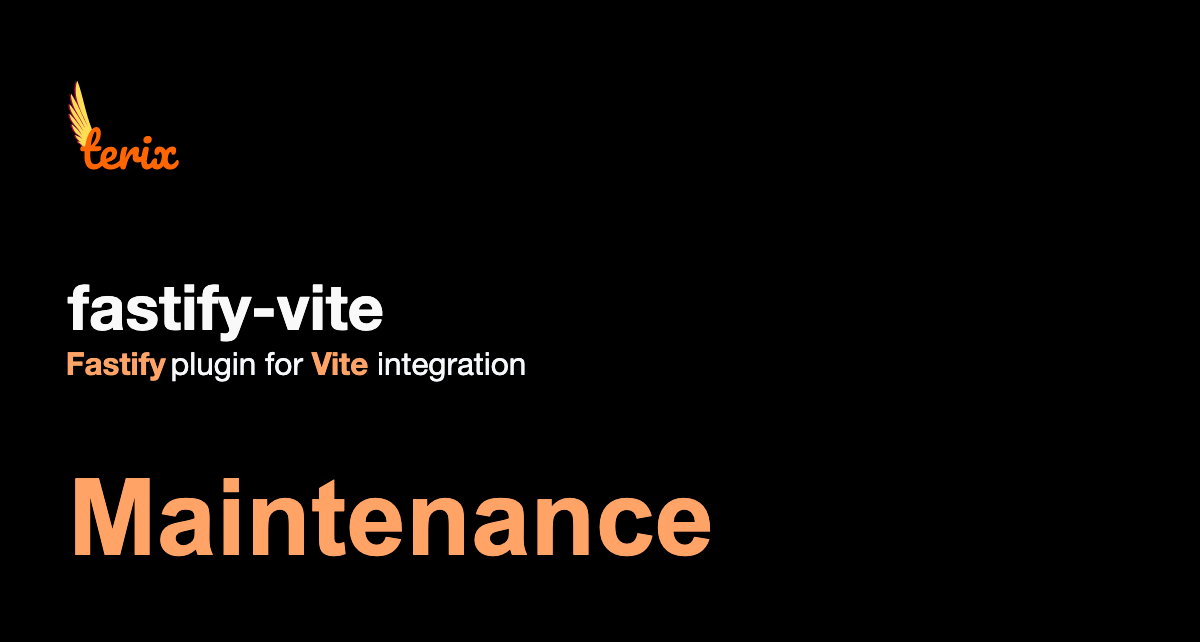
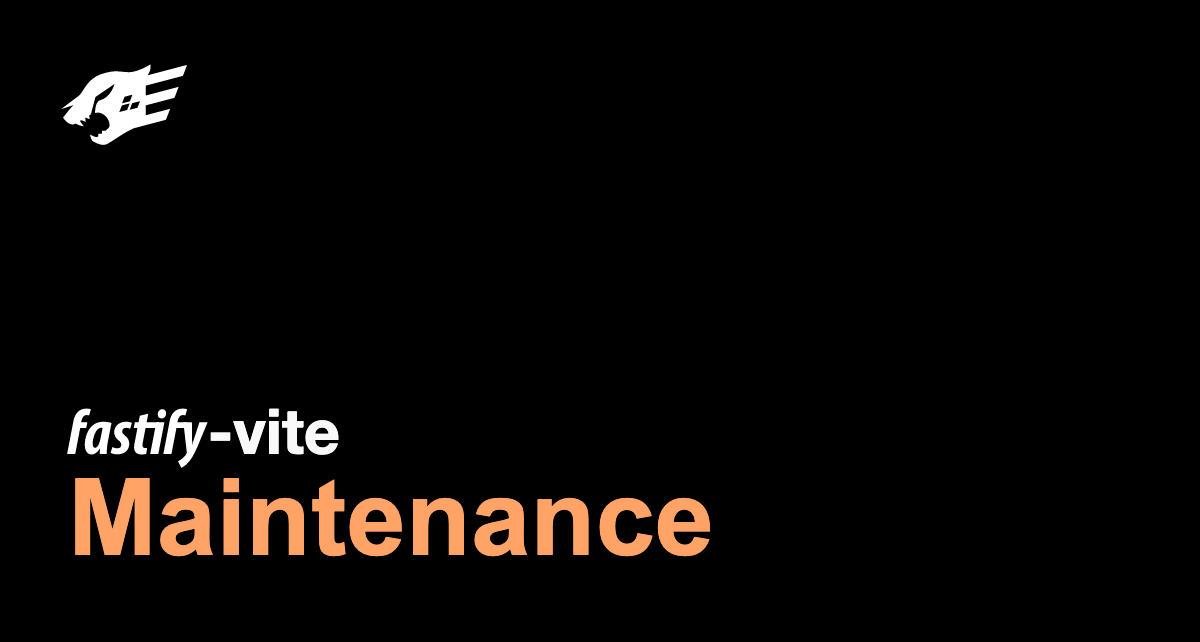
docs: update covers

Changed region(s): [[0.0308, 0.4361, 0.4317, 0.5919], [0.0308, 0.6231, 0.2775, 0.7165], [0.0308, 0.0935, 0.1542, 0.2804]]

diff --git a/docs/covers.js b/docs/covers.js
@@ -16,8 +16,8 @@ const svg = (title) => (
    xmlns:inkscape="http://www.inkscape.org/namespaces/inkscape"
    inkscape:export-ydpi="96"
    inkscape:export-xdpi="96"
-   inkscape:export-filename="/Users/jonas/Downloads/social.png"
-   sodipodi:docname="entry.svg"
+   inkscape:export-filename="/Users/jonas/Downloads/cover.png"
+   sodipodi:docname="article.svg"
    inkscape:version="1.0.2 (e86c8708, 2021-01-15)"
    id="svg117"
    version="1.1"
@@ -27,7 +27,7 @@ const svg = (title) => (
   <defs
      id="defs111" />
   <sodipodi:namedview
-     inkscape:window-maximized="0"
+     inkscape:window-maximized="1"
      inkscape:window-y="25"
      inkscape:window-x="0"
      inkscape:window-height="847"
@@ -36,9 +36,9 @@ const svg = (title) => (
      inkscape:document-rotation="0"
      inkscape:current-layer="text142"
      inkscape:document-units="px"
-     inkscape:cy="390.01423"
-     inkscape:cx="611.15187"
-     inkscape:zoom="0.63287027"
+     inkscape:cy="308.43284"
+     inkscape:cx="587.90086"
+     inkscape:zoom="0.66967556"
      inkscape:pageshadow="2"
      inkscape:pageopacity="0.0"
      borderopacity="1.0"
@@ -73,42 +73,6 @@ const svg = (title) => (
          width="317.5"
          id="rect65"
          style="fill:#000000;fill-rule:evenodd;stroke-width:0.112437" />
-      <g
-         transform="matrix(0.49234451,0,0,0.50557002,17.991671,21.325106)"
-         id="g63">
-        <g
-           transform="matrix(0.69049693,0,0,0.69049693,-37.076081,-57.036554)"
-           id="g21">
-          <path
-             d="m 58.054708,105.98839 c -0.397523,-0.58357 -0.794974,-1.15363 -1.190655,-1.70658 -1.066018,-1.49316 -2.119657,-2.86676 -3.133959,-4.04787 0.153499,2.33596 0.790947,4.40504 1.715822,6.35377 0.185605,0.39169 0.383786,0.77917 0.59186,1.16216 0.341137,0.629 0.70829,1.2476 1.096929,1.86078 2.044798,3.23657 4.645435,6.33347 6.762706,10.04916 0.09334,0.1651 0.185944,0.33084 0.277678,0.49851 0.242613,0.43973 0.477558,0.88952 0.703415,1.3493 -0.293309,-0.46209 -0.591355,-0.92396 -0.896249,-1.38512 -0.110062,-0.16735 -0.220783,-0.33414 -0.333641,-0.50043 -1.877402,-2.80259 -3.963413,-5.55994 -6.272239,-8.18611 -0.379881,-0.43373 -0.767009,-0.8627 -1.159782,-1.28824 -0.60208,-0.65296 -1.217963,-1.29574 -1.849143,-1.9271 0,0 0,0 -6.02e-4,-7.3e-4 -0.221833,-0.22324 -0.446585,-0.44407 -0.672068,-0.66429 0.113763,0.7726 0.270905,1.48706 0.464192,2.15555 0.691141,2.37456 1.847145,4.1543 3.165554,5.81206 1.052223,1.32405 2.207198,2.57052 3.308761,3.98113 0.111733,0.14248 0.222543,0.28695 0.332571,0.4333 l 6.64e-4,8.1e-4 c 0.348643,0.46328 0.690101,0.94611 1.019566,1.45495 0.03133,0.0483 0.06258,0.0965 0.09318,0.14544 0.05177,0.0821 0.103621,0.16403 0.154665,0.24667 0.115567,0.18753 0.228822,0.37821 0.340965,0.57351 0.04119,0.0722 0.08302,0.14521 0.123375,0.21939 0.250505,0.44928 0.49147,0.92129 0.717806,1.419 -0.368585,-0.52468 -0.748551,-1.04365 -1.141431,-1.55441 -0.03425,-0.046 -0.06911,-0.0924 -0.105415,-0.13782 -0.210881,-0.27433 -0.425482,-0.54561 -0.643734,-0.81386 -0.04845,-0.0601 -0.09765,-0.11951 -0.14684,-0.17894 -0.367031,-0.44808 -0.74489,-0.88843 -1.131166,-1.31935 -0.124136,-0.13963 -0.249194,-0.27726 -0.376249,-0.41448 -0.502041,-0.54407 -1.020544,-1.07207 -1.553599,-1.58184 -0.40408,-0.38528 -0.817222,-0.76058 -1.239061,-1.12251 -0.543691,-0.46882 -1.102208,-0.91673 -1.675815,-1.34102 0.633988,2.04844 1.249143,3.52272 1.855834,4.62809 0.0767,0.14056 0.153359,0.27496 0.230432,0.40407 0.186883,0.31398 0.372692,0.59548 0.559182,0.8492 0.07554,0.10323 0.150033,0.20228 0.225695,0.2967 0.09619,0.12072 0.192261,0.23535 0.288218,0.34389 0.621541,0.70487 1.242419,1.17288 1.87481,1.63384 0.984352,0.71751 1.995479,1.41657 3.077281,2.96467 -0.573367,-0.49124 -1.061519,-0.83169 -1.493025,-1.08422 -0.844378,-0.49454 -1.473437,-0.65411 -2.105597,-0.93845 -0.0409,-0.0181 -0.0817,-0.0374 -0.122467,-0.0569 -0.370904,-0.1778 -0.74759,-0.40893 -1.173411,-0.7861 -0.195977,-0.17416 -0.402626,-0.37906 -0.62437,-0.62464 0.350899,1.04131 0.794789,2.03658 1.410944,2.94867 0.48609,0.7205 1.079213,1.38953 1.817704,1.98774 0.486375,0.39507 1.035188,0.7595 1.65914,1.08774 -0.522873,-0.18064 -0.91534,-0.29486 -1.236531,-0.35429 -0.44747,-0.0835 -0.758694,-0.0622 -1.094197,0.0299 -0.148595,0.0402 -0.302581,0.0946 -0.476503,0.15935 0.290179,0.137 0.572992,0.28754 0.847831,0.45085 0.833045,0.49279 1.598475,1.09962 2.282509,1.7874 0.943274,0.95179 1.730342,2.06002 2.315817,3.23983 0.0012,0.001 9.71e-4,0.004 0.0021,0.006 0.05921,0.11793 0.115021,0.2362 0.168779,0.35494 0.02271,0.0393 0.04534,0.0787 0.06889,0.1161 0.910738,1.46091 2.99103,1.96528 3.231693,-0.14534 -1.79e-4,-0.22735 0.0059,-0.45616 0.01533,-0.68531 0.09727,-2.26152 0.625172,-4.54799 1.371372,-6.7171 0.12263,-0.35986 0.251586,-0.71507 0.386267,-1.06636 0.318484,-0.83598 0.665929,-1.64892 1.028147,-2.43206 0.05703,-0.12385 0.114666,-0.24696 0.172176,-0.36873 0.188512,-0.3983 0.380891,-0.78745 0.574467,-1.16768 -2.392514,-5.1808 -4.238409,-10.93114 -5.826935,-16.54821 -1.241437,-4.3921 -2.326794,-8.703139 -3.39216,-12.595509 -0.245537,-0.89604 -0.489815,-1.76961 -0.734555,-2.61684 -0.893273,-3.092615 -1.795839,-5.836255 -2.788022,-8.032235 -1.03072,3.19706 -1.326971,6.268625 -1.11515,9.254905 0.110776,1.58493 0.365926,3.14562 0.728963,4.68875 0.723091,3.06774 1.876515,6.063779 3.190051,9.033689 0.309898,0.70183 0.630041,1.40259 0.954342,2.1024 0.337373,0.72608 0.680975,1.45071 1.025186,2.17607 1.231951,2.58736 2.488548,5.17163 3.588795,7.78513 -1.370068,-2.436 -2.551811,-4.80277 -3.667809,-7.13492 -0.288776,-0.60308 -0.572921,-1.20504 -0.855249,-1.8048 -0.491406,-1.04374 -0.97588,-2.0821 -1.464625,-3.11815 -0.725561,-1.53747 -1.460287,-3.07106 -2.241822,-4.61043 -0.442003,-0.87196 -0.900103,-1.745429 -1.379408,-2.623619 -1.089491,-1.99675 -2.290763,-4.01353 -3.6835,-6.07344 0.0026,3.34609 0.743765,6.33703 1.878908,9.154089 0.311232,0.77366 0.652752,1.53464 1.016873,2.28557 0.348619,0.72172 0.718491,1.43327 1.103018,2.14011 2.385791,4.38993 5.329473,8.57544 7.318617,13.3467 -2.377829,-4.12325 -5.213663,-8.90617 -8.033554,-13.05563 -0.03557,-0.0534 -0.07243,-0.10693 -0.108732,-0.15978"
-             style="fill:#aa0044;fill-opacity:1;fill-rule:nonzero;stroke:none;stroke-width:0.00952631"
-             id="path92" />
-          <path
-             id="path92-0"
-             style="fill:#ffdd55;fill-opacity:1;fill-rule:nonzero;stroke:none;stroke-width:0.0095263"
-             d="m 59.112802,105.98839 c -0.397523,-0.58358 -0.794974,-1.15363 -1.190655,-1.70658 -1.066019,-1.49316 -2.119656,-2.86676 -3.133959,-4.04787 0.153499,2.33596 0.790946,4.40503 1.715822,6.35376 0.185606,0.3917 0.383786,0.77917 0.59186,1.16217 0.341137,0.62899 0.70829,1.24759 1.096929,1.86078 2.044797,3.23657 4.645434,6.33347 6.762705,10.04915 0.09334,0.16511 0.185946,0.33084 0.277679,0.49851 0.242611,0.43973 0.477558,0.88952 0.703421,1.34931 -0.293315,-0.46209 -0.591361,-0.92397 -0.896255,-1.38513 -0.110062,-0.16734 -0.220783,-0.33414 -0.333641,-0.50042 -1.877402,-2.8026 -3.963413,-5.55995 -6.272239,-8.18611 -0.379882,-0.43374 -0.767009,-0.86271 -1.159782,-1.28824 -0.60208,-0.65297 -1.217964,-1.29575 -1.849143,-1.92711 0,0 0,0 -6.03e-4,-7.2e-4 -0.221832,-0.22325 -0.446584,-0.44407 -0.672067,-0.6643 0.113763,0.77261 0.270904,1.48707 0.464193,2.15555 0.691139,2.37456 1.847145,4.15431 3.165553,5.81207 1.052224,1.32405 2.207198,2.57052 3.308761,3.98113 0.111733,0.14247 0.222542,0.28695 0.332571,0.4333 l 6.52e-4,8.6e-4 c 0.348644,0.46329 0.6901,0.94612 1.019566,1.45495 0.03133,0.0483 0.06258,0.0965 0.09318,0.14544 0.05177,0.0821 0.10362,0.16405 0.154665,0.24668 0.115567,0.18752 0.228823,0.3782 0.340966,0.57351 0.04119,0.0722 0.08302,0.14521 0.123374,0.21938 0.250506,0.44929 0.49147,0.92129 0.717806,1.419 -0.368584,-0.52467 -0.74855,-1.04365 -1.141432,-1.55441 -0.03425,-0.046 -0.06911,-0.0924 -0.105414,-0.13782 -0.210882,-0.27433 -0.425482,-0.54561 -0.643734,-0.81385 -0.04845,-0.0601 -0.09765,-0.11951 -0.14684,-0.17895 -0.367031,-0.44808 -0.74489,-0.88842 -1.131166,-1.31934 -0.124136,-0.13964 -0.249195,-0.27725 -0.376248,-0.41449 -0.502041,-0.54407 -1.020545,-1.07207 -1.553599,-1.58184 -0.404081,-0.38527 -0.817223,-0.76058 -1.239062,-1.1225 -0.543691,-0.46882 -1.102207,-0.91673 -1.675815,-1.34102 0.633989,2.04844 1.249144,3.52271 1.855835,4.62809 0.0767,0.14056 0.153358,0.27495 0.230432,0.40407 0.186882,0.31397 0.372691,0.59547 0.559181,0.84919 0.07554,0.10324 0.150033,0.20228 0.225695,0.2967 0.09619,0.12072 0.192262,0.23535 0.288219,0.34389 0.62154,0.70488 1.242418,1.17289 1.874809,1.63385 0.984353,0.71751 1.995479,1.41656 3.07728,2.96467 -0.573365,-0.49125 -1.061518,-0.83169 -1.493023,-1.08423 -0.844379,-0.49453 -1.473438,-0.6541 -2.105597,-0.93844 -0.0409,-0.0181 -0.0817,-0.0374 -0.122468,-0.0569 -0.370903,-0.1778 -0.74759,-0.40893 -1.173411,-0.7861 -0.195977,-0.17415 -0.402625,-0.37905 -0.624369,-0.62463 0.3509,1.0413 0.794789,2.03658 1.410943,2.94867 0.48609,0.72049 1.079214,1.38952 1.817705,1.98773 0.486373,0.39508 1.035188,0.75951 1.65914,1.08775 -0.522874,-0.18065 -0.91534,-0.29487 -1.236532,-0.3543 -0.44747,-0.0835 -0.758694,-0.0622 -1.094197,0.0299 -0.148595,0.0402 -0.302581,0.0946 -0.476503,0.15935 0.29018,0.13701 0.572993,0.28754 0.847829,0.45087 0.833047,0.49277 1.598477,1.0996 2.282513,1.78739 0.943274,0.95179 1.730339,2.06001 2.315814,3.23983 8.88e-4,0.001 5.66e-4,0.004 0.0024,0.006 0.05921,0.11794 0.115018,0.2362 0.168776,0.35495 0.02272,0.0393 0.04533,0.0787 0.06886,0.11609 0.910743,1.46091 2.991033,1.96528 3.231703,-0.14535 -1.4e-4,-0.22734 0.006,-0.45615 0.0153,-0.6853 0.0973,-2.26153 0.62516,-4.54799 1.37136,-6.7171 0.12266,-0.35985 0.2516,-0.71507 0.38627,-1.06636 0.31849,-0.83598 0.66593,-1.64893 1.02815,-2.43206 0.057,-0.12384 0.11462,-0.24696 0.17217,-0.36873 0.18852,-0.3983 0.38089,-0.78745 0.57447,-1.16768 -2.3925,-5.18087 -4.23839,-10.93121 -5.82692,-16.54828 -1.241437,-4.3921 -2.326794,-8.703139 -3.39216,-12.595509 -0.245538,-0.89604 -0.489816,-1.76961 -0.734556,-2.61684 -0.893271,-3.092611 -1.795837,-5.836251 -2.788021,-8.032231 -1.030721,3.19706 -1.32697,6.26862 -1.11515,9.254901 0.110775,1.58493 0.365925,3.14563 0.728963,4.68875 0.723091,3.06774 1.876514,6.063779 3.190051,9.033699 0.309897,0.70182 0.630041,1.40259 0.954341,2.10239 0.337375,0.72608 0.680976,1.45071 1.025187,2.17607 1.231948,2.58736 2.488545,5.17163 3.588795,7.78513 -1.37007,-2.43599 -2.551806,-4.80277 -3.667809,-7.13492 -0.288776,-0.60308 -0.572921,-1.20504 -0.85525,-1.8048 -0.491406,-1.04374 -0.975879,-2.08209 -1.464625,-3.11815 -0.72556,-1.53747 -1.460286,-3.07106 -2.241822,-4.61043 -0.442001,-0.87196 -0.900103,-1.745429 -1.379407,-2.623609 -1.08949,-1.99676 -2.290764,-4.01354 -3.6835,-6.07345 0.0026,3.34609 0.743764,6.33703 1.878908,9.154089 0.311231,0.77367 0.652752,1.53464 1.016874,2.28557 0.348618,0.72172 0.71849,1.43327 1.103017,2.14011 2.38579,4.38993 5.329472,8.57544 7.318614,13.3467 -2.377826,-4.12325 -5.213661,-8.90616 -8.033551,-13.05563 -0.03558,-0.0534 -0.07243,-0.10693 -0.108731,-0.15978" />
-        </g>
-        <path
-           id="path41"
-           style="font-style:normal;font-variant:normal;font-weight:normal;font-stretch:normal;font-size:25.4px;font-family:Pacifico;-inkscape-font-specification:Pacifico;fill:#ff6600;stroke-width:0.264583"
-           d="m 19.127053,40.763031 q 0.3302,0 0.508,0.3048 0.2032,0.3048 0.2032,0.8382 0,1.016 -0.4826,1.5748 -1.0922,1.3462 -2.3876,2.2098 -1.2954,0.8636 -2.9718,0.8636 -5.1816,0 -5.1816,-7.2898 0,-1.1176 0.0762,-2.2606 h -0.9906 q -0.762,0 -1.0414,-0.2794 -0.254,-0.2794 -0.254,-0.889 0,-1.4224 1.143,-1.4224 h 1.4478 q 0.4317999,-2.794 1.3208,-5.1054 0.889,-2.3114 2.1336,-3.683 1.27,-1.3716 2.7178,-1.3716 1.0668,0 1.6764,0.9398 0.6096,0.9398 0.6096,2.3622 0,3.937 -3.302,6.858 h 2.8448 q 0.4064,0 0.5842,0.1778 0.1778,0.1778 0.1778,0.6604 0,1.7526 -2.8702,1.7526 h -3.0988 q -0.0508,1.27 -0.0508,1.9812 0,2.6416 0.6096,3.7084 0.635,1.0668 1.9812,1.0668 1.0922,0 1.9304,-0.6604 0.8382,-0.6604 1.9812,-1.9812 0.3048,-0.3556 0.6858,-0.3556 z m -4.445,-14.0716 q -0.381,0 -0.8636,0.9652 -0.4572,0.9398 -0.889,2.6416 -0.4064,1.6764 -0.6858,3.7338 1.4986,-1.2954 2.2352,-2.8956 0.762,-1.6256 0.762,-2.9464 0,-1.4986 -0.5588,-1.4986 z" />
-        <path
-           id="path43"
-           style="font-style:normal;font-variant:normal;font-weight:normal;font-stretch:normal;font-size:25.4px;font-family:Pacifico;-inkscape-font-specification:Pacifico;fill:#ff6600;stroke-width:0.264583"
-           d="m 29.098537,40.763031 q 0.3302,0 0.508,0.3048 0.2032,0.3048 0.2032,0.8382 0,1.016 -0.4826,1.5748 -0.9398,1.143 -2.667,2.1082 -1.7018,0.9652 -3.6576,0.9652 -2.667,0 -4.1402,-1.4478 -1.4732,-1.4478 -1.4732,-3.9624 0,-1.7526 0.7366,-3.2512 0.7366,-1.524 2.032,-2.413 1.3208,-0.889 2.9718,-0.889 1.4732,0 2.3622,0.889 0.889,0.8636 0.889,2.3622 0,1.7526 -1.27,3.0226 -1.2446,1.2446 -4.2418,1.9812 0.635,1.1684 2.413,1.1684 1.143,0 2.5908,-0.7874 1.4732,-0.8128 2.54,-2.1082 0.3048,-0.3556 0.6858,-0.3556 z m -6.4008,-3.683 q -0.9398,0 -1.6002,1.0922 -0.635,1.0922 -0.635,2.6416 v 0.0508 q 1.4986,-0.3556 2.3622,-1.0668 0.8636,-0.7112 0.8636,-1.651 0,-0.4826 -0.2794,-0.762 -0.254,-0.3048 -0.7112,-0.3048 z" />
-        <path
-           id="path45"
-           style="font-style:normal;font-variant:normal;font-weight:normal;font-stretch:normal;font-size:25.4px;font-family:Pacifico;-inkscape-font-specification:Pacifico;fill:#ff6600;stroke-width:0.264583"
-           d="m 29.545021,46.554231 q -0.9652,0 -1.3716,-1.016 -0.381,-1.016 -0.381,-3.2512 0,-3.302 0.9398,-6.2738 0.2286,-0.7366 0.7366,-1.0668 0.5334,-0.3556 1.4732,-0.3556 0.508,0 0.7112,0.127 0.2032,0.127 0.2032,0.4826 0,0.4064 -0.381,1.8288 -0.254,1.016 -0.4064,1.778 -0.1524,0.762 -0.254,1.8796 0.8382,-2.1844 1.8796,-3.556 1.0414,-1.3716 2.032,-1.9558 1.016,-0.5842 1.8542,-0.5842 1.651,0 1.651,1.651 0,0.3302 -0.2286,1.6002 -0.2032,1.016 -0.2032,1.27 0,0.889 0.635,0.889 0.7112,0 1.8288,-1.1176 0.3302,-0.3302 0.6858,-0.3302 0.3302,0 0.508,0.3048 0.2032,0.2794 0.2032,0.762 0,0.9398 -0.508,1.4732 -0.7112,0.7366 -1.6764,1.27 -0.9398,0.508 -2.0066,0.508 -1.3462,0 -2.0574,-0.6858 -0.6858,-0.6858 -0.6858,-1.8542 0,-0.381 0.0762,-0.762 0.0508,-0.508 0.0508,-0.6858 0,-0.4064 -0.2794,-0.4064 -0.381,0 -1.016,0.8636 -0.6096,0.8382 -1.2192,2.2352 -0.6096,1.397 -0.9906,2.9464 -0.2794,1.1938 -0.6604,1.6256 -0.3556,0.4064 -1.143,0.4064 z" />
-        <path
-           id="path47"
-           style="font-style:normal;font-variant:normal;font-weight:normal;font-stretch:normal;font-size:25.4px;font-family:Pacifico;-inkscape-font-specification:Pacifico;fill:#ff6600;stroke-width:0.264583"
-           d="m 42.628006,32.914431 q -1.0668,0 -1.6002,-0.4826 -0.5334,-0.508 -0.5334,-1.397 0,-0.889 0.6858,-1.4732 0.7112,-0.6096 1.7526,-0.6096 0.9398,0 1.524,0.4572 0.5842,0.4572 0.5842,1.2954 0,1.016 -0.6604,1.6256 -0.6604,0.5842 -1.7526,0.5842 z m -0.2032,13.6398 q -1.651,0 -2.413,-1.1684 -0.7366,-1.1684 -0.7366,-3.0988 0,-1.143 0.2794,-2.921 0.3048,-1.8034 0.762,-3.3528 0.2286,-0.8128 0.6096,-1.1176 0.381,-0.3048 1.2192,-0.3048 1.2954,0 1.2954,0.8636 0,0.635 -0.4826,2.9464 -0.6096,2.794 -0.6096,3.7846 0,0.762 0.2032,1.1684 0.2032,0.4064 0.6858,0.4064 0.4572,0 1.143,-0.635 0.6858,-0.635 1.8288,-2.0066 0.3048,-0.3556 0.6858,-0.3556 0.3302,0 0.508,0.3048 0.2032,0.3048 0.2032,0.8382 0,1.016 -0.4826,1.5748 -2.5146,3.0734 -4.699,3.0734 z" />
-        <path
-           id="path49"
-           style="font-style:normal;font-variant:normal;font-weight:normal;font-stretch:normal;font-size:25.4px;font-family:Pacifico;-inkscape-font-specification:Pacifico;fill:#ff6600;stroke-width:0.264583"
-           d="m 58.835584,41.525031 q 0.3302,0 0.508,0.3048 0.2032,0.3048 0.2032,0.8382 0,0.9144 -0.4318,1.5748 -1.4986,2.3114 -4.2672,2.3114 -1.1938,0 -2.1336,-0.4572 -0.9144,-0.4826 -1.4986,-1.3716 -1.4732,1.8034 -3.429,1.8034 -1.397,0 -2.2098,-0.8128 -0.8128,-0.8128 -0.8128,-2.159 0,-1.27 0.5842,-2.0574 0.5842,-0.7874 1.651,-0.7874 0.9144,0 0.9144,0.6858 0,0.2032 -0.0508,0.7112 l -0.0762,0.9652 q 0,0.762 0.6604,0.762 0.4826,0 0.9144,-0.5588 0.4572,-0.5842 0.7366,-1.5748 0.3048,-0.9906 0.3048,-2.1844 0,-0.9144 -0.2286,-1.524 -0.2286,-0.635 -0.5588,-0.635 -0.2794,0 -0.4064,0.1524 -0.127,0.127 -0.254,0.4572 -0.1524,0.4064 -0.4064,0.6604 -0.254,0.2286 -0.889,0.2286 -0.5588,0 -0.889,-0.381 -0.3302,-0.4064 -0.3302,-1.2192 0,-1.2954 0.7874,-2.032 0.7874,-0.7366 2.032,-0.7366 1.0668,0 1.9304,0.5334 0.8636,0.508 1.3208,1.4986 0.762,-1.016 1.7018,-1.524 0.9652,-0.508 1.8796,-0.508 0.9906,0 1.4986,0.4572 0.5334,0.4572 0.5334,1.4732 0,1.143 -0.4318,1.8034 -0.4318,0.635 -1.0414,0.635 -0.5588,0 -0.762,-0.2286 -0.2032,-0.2286 -0.3048,-0.6604 -0.0508,-0.3048 -0.1524,-0.4572 -0.1016,-0.1524 -0.3556,-0.1524 -0.3048,0 -0.6604,0.5842 -0.3302,0.5588 -0.5842,1.4986 -0.2286,0.9398 -0.2286,1.9558 0,1.143 0.508,1.8288 0.5334,0.6858 1.27,0.6858 1.397,0 2.7686,-2.0066 0.254,-0.381 0.6858,-0.381 z" />
-      </g>
       <text
          xml:space="preserve"
          style="font-size:50.8px;line-height:1.25;font-family:sans-serif;-inkscape-font-specification:'sans-serif, Normal';stroke-width:0.0700042"
@@ -133,43 +97,6 @@ const svg = (title) => (
            style="font-style:normal;font-variant:normal;font-weight:normal;font-stretch:normal;font-family:'System Font';-inkscape-font-specification:'System Font';stroke-width:0.0700042" /></text>
       <text
          xml:space="preserve"
-         style="font-style:normal;font-variant:normal;font-weight:bold;font-stretch:normal;font-size:16.6676px;line-height:1.25;font-family:'Helvetica Neue';-inkscape-font-specification:'Helvetica Neue Bold';stroke-width:0.055124"
-         x="17.991661"
-         y="87.417542"
-         id="text877"><tspan
-           sodipodi:role="line"
-           id="tspan875"
-           x="17.991661"
-           y="87.417542"
-           style="font-style:normal;font-variant:normal;font-weight:bold;font-stretch:normal;font-size:16.6676px;font-family:'Helvetica Neue';-inkscape-font-specification:'Helvetica Neue Bold';fill:#f9f9f9;stroke-width:0.055124">fastify-vite</tspan></text>
-      <text
-         xml:space="preserve"
-         style="font-style:normal;font-variant:normal;font-weight:normal;font-stretch:normal;font-size:2.77792px;line-height:1.25;font-family:'Helvetica Neue';-inkscape-font-specification:'Helvetica Neue';fill:#ff6600;fill-opacity:1;stroke:none;stroke-width:0.055124"
-         x="16.429018"
-         y="99.176323"
-         id="text36-7"><tspan
-           sodipodi:role="line"
-           x="16.429018"
-           y="99.176323"
-           style="font-style:normal;font-variant:normal;font-weight:normal;font-stretch:normal;font-size:8.33374px;font-family:'Helvetica Neue';-inkscape-font-specification:'Helvetica Neue';fill:#f5f7fa;fill-opacity:1;stroke-width:0.055124"
-           id="tspan38-4"
-           rotate="0 0 0 0 0 0 0 0 0 0 0 0 0 0 0 0 0 0 0 0 0 0 0 0 0 0 0 0 0 0 0 0 0 0 0 0"
-           dx="0 0 0 0 0 0 0 -0.98761541"><tspan
-   style="font-style:normal;font-variant:normal;font-weight:bold;font-stretch:normal;font-size:8.33374px;font-family:'Helvetica Neue';-inkscape-font-specification:'Helvetica Neue';fill:#ffa366;fill-opacity:1;stroke-width:0.055124"
-   id="tspan867-5"
-   rotate="0 0 0 0 0 0 0 0"
-   dx="0.98761541">Fastify</tspan> plugin for <tspan
-   style="font-style:normal;font-variant:normal;font-weight:bold;font-stretch:normal;font-size:8.33374px;font-family:'Helvetica Neue';-inkscape-font-specification:'Helvetica Neue';fill:#ffa366;fill-opacity:1;stroke-width:0.055124"
-   id="tspan869-1"
-   rotate="0 0 0 0 0">Vite</tspan> integration</tspan><tspan
-           sodipodi:role="line"
-           x="16.429018"
-           y="104.35899"
-           style="font-style:normal;font-variant:normal;font-weight:normal;font-stretch:normal;font-size:13.8896px;font-family:'Helvetica Neue';-inkscape-font-specification:'Helvetica Neue';fill:#f5f7fa;fill-opacity:1;stroke-width:0.055124"
-           rotate="0"
-           id="tspan883-6" /></text>
-      <text
-         xml:space="preserve"
          style="font-style:normal;font-variant:normal;font-weight:bold;font-stretch:normal;font-size:28.2222px;line-height:1.25;font-family:'Helvetica Neue';-inkscape-font-specification:'Helvetica Neue Bold';fill:#ff6600;fill-opacity:1;stroke:none;stroke-width:0.055124"
          x="17.991667"
          y="146.88046"
@@ -179,9 +106,67 @@ const svg = (title) => (
            x="17.991667"
            y="146.88046"
            style="font-style:normal;font-variant:normal;font-weight:bold;font-stretch:normal;font-size:28.2222px;font-family:sans-serif,'Helvetica Neue';-inkscape-font-specification:'Helvetica Neue Bold';fill:#ffa366;fill-opacity:1;stroke-width:0.055124">${title}</tspan></text>
+      <path
+         class="st0"
+         d="m 48.398293,20.068157 1.04521,-2.705997 -0.04504,-0.167464 -10.337761,2.72332 c 1.101802,-1.594956 0.722985,-2.873461 0.722985,-2.873461 0,0 -3.300784,2.108899 -5.797738,2.052307 -2.496955,-0.05544 -3.300785,-0.72183 -7.129371,0.498929 -3.828586,1.220759 -4.909599,4.96619 -6.019485,5.771175 -1.109885,0.804985 -4.591993,3.426672 -4.591993,3.426672 l 0.0081,0.04735 3.139095,-0.999013 c 0,0 -0.860422,0.811914 -2.689828,3.276531 0,0 -0.03234,-0.02887 -0.08546,-0.07969 l 0.0023,0.01732 c 0,0 1.470224,2.247489 2.912729,1.83056 0.144366,-0.04158 0.308366,-0.110873 0.487379,-0.202112 0.580929,0.32338 1.338562,0.64214 2.175885,0.72876 0,0 -0.56707,-0.658309 -1.039435,-1.407858 0.128197,-0.082 0.258703,-0.167464 0.39152,-0.254084 l -0.06121,0.04389 1.19535,0.438873 -0.131661,-1.123745 c 0.0035,-0.0023 0.0081,-0.0046 0.01155,-0.0069 l 1.174562,0.430788 -0.146676,-1.022112 c 0.148986,-0.07738 0.297971,-0.151295 0.445802,-0.220591 l 1.224224,-4.632416 5.063204,-3.45439 -0.401915,1.012872 c -1.024421,2.523518 -2.953151,3.120616 -2.953151,3.120616 l -0.804985,0.304901 c -0.598252,0.706816 -0.850027,0.88121 -1.055604,3.255742 0.48276,-0.121268 0.943576,-0.150141 1.360505,-0.03811 2.164336,0.582084 2.912729,3.189911 2.330645,3.911741 -0.145521,0.180169 -0.493154,0.48969 -0.932027,0.851182 h -0.877745 l -0.01155,0.711436 c -0.03003,0.0231 -0.06006,0.04735 -0.09009,0.07045 h -0.892759 l -0.01155,0.694112 c -0.07969,0.06006 -0.157071,0.118958 -0.234451,0.176704 -0.839632,0.01732 -1.902166,-0.7149 -1.902166,-0.7149 0,0.665238 0.554365,1.691969 0.554365,1.691969 0,0 0.0358,-0.01732 0.09817,-0.04735 -0.05428,0.03927 -0.08431,0.06121 -0.08431,0.06121 0,0 2.24749,1.497942 3.662277,0.943576 1.257717,-0.493154 4.514614,-3.061714 7.325708,-4.276698 l 8.5072,-2.241715 1.121435,-2.905799 -6.482611,1.708139 v -2.610138 l 7.606356,-2.0038 1.121435,-2.905799 -8.726636,2.299462 v -2.610137 z m -15.440232,5.53326 2.018814,-0.532422 0.02656,0.100479 -0.629435,1.631913 -2.09273,0.5509 z m 0.697576,3.491347 -2.092729,0.550901 0.676788,-1.752026 2.018814,-0.532422 0.02656,0.100479 z m 2.72563,-0.585549 -2.092729,0.550901 0.676788,-1.752026 2.018814,-0.532421 0.02656,0.100478 z"
+         id="path862"
+         style="stroke-width:0.00305574" />
+      <g
+         id="g885"
+         transform="matrix(0.49792152,0,0,0.49792152,8.9170531,62.146899)">
+        <text
+           xml:space="preserve"
+           style="font-style:normal;font-variant:normal;font-weight:bold;font-stretch:normal;font-size:33.2798px;line-height:1.25;font-family:'Helvetica Neue';-inkscape-font-specification:'Helvetica Neue Bold';stroke-width:0.110065"
+           x="92.445801"
+           y="116.61423"
+           id="text877"><tspan
+             sodipodi:role="line"
+             id="tspan875"
+             x="92.445801"
+             y="116.61423"
+             style="font-style:normal;font-variant:normal;font-weight:bold;font-stretch:normal;font-size:33.2798px;font-family:'Helvetica Neue';-inkscape-font-specification:'Helvetica Neue Bold';fill:#f9f9f9;stroke-width:0.110065">-vite</tspan></text>
+        <g
+           id="g878"
+           transform="matrix(0.0259943,0,0,0.0259943,17.2014,37.894086)">
+          <path
+             class="st0"
+             d="m 146,2372.6 5.3,-26.5 c 14.6,-76.8 43.7,-143.1 98.1,-193.4 39.7,-37.1 98,-59.6 164.3,-59.6 42.4,0 74.2,6.6 94.1,13.2 l -37.1,127.2 c -15.9,-5.3 -30.5,-7.9 -51.7,-7.9 -59.6,0 -94.1,62.3 -104.7,119.2 l -5.3,27.8 h 125.9 l -22.5,116.6 H 289.1 l -102,531.3 H 21.5 l 102,-531.3"
+             id="path864" />
+          <path
+             class="st0"
+             d="m 687.9,3020.5 c 1.3,-34.4 4,-70.2 5.3,-108.6 h -4 c -51.7,86.1 -113.9,119.3 -165.6,119.3 -94.1,0 -140.4,-80.8 -140.4,-194.8 0,-196.1 98,-474.3 376.3,-474.3 64.9,0 129.8,10.6 169.6,26.5 L 857.6,2749 c -15.9,75.5 -27.8,201.4 -26.5,271.6 H 687.9 Z m 59.6,-531.3 c -13.2,-2.7 -25.2,-4 -34.4,-4 -108.6,0 -166.9,216 -168.3,311.3 0,57 8,98 49,98 45,0 87.4,-74.2 111.3,-192.1 z"
+             id="path866" />
+          <path
+             class="st0"
+             d="m 948.9,2878.7 c 26.5,14.6 58.3,27.8 104.7,26.5 47.7,-1.3 74.2,-31.8 74.2,-72.9 0,-35.8 -17.2,-60.9 -62.3,-96.7 -55.6,-45 -82.1,-102 -82.1,-157.7 0,-119.3 92.7,-215.9 239.8,-215.9 57,0 98,10.6 121.9,23.8 l -35.8,120.6 c -18.5,-10.6 -49,-19.9 -76.8,-19.9 -53,0 -86.1,27.8 -86.1,71.5 0,33.1 18.5,53 49,78.2 72.9,55.7 96.7,119.2 96.7,169.6 0,143.1 -99.4,222.6 -247.8,222.6 -59.6,0 -112.6,-17.2 -135.1,-33.1 z"
+             id="path868" />
+          <path
+             class="st0"
+             d="m 1680.2,2197.7 -33.1,174.9 h 254.4 l -21.2,116.6 h -255.7 l -57,300.7 c -4,22.5 -5.3,42.4 -5.3,54.3 0,39.7 19.9,54.3 50.4,54.3 11.9,0 29.2,0 45,-2.7 l -19.9,124.5 c -30.5,8 -67.6,10.6 -99.4,10.6 -99.3,0 -148.4,-55.7 -148.4,-143.1 0,-29.1 5.3,-64.9 11.9,-96.7 l 57,-302.1 h -75.5 l 22.5,-116.6 h 75.5 l 26.5,-133.8 z"
+             id="path870" />
+          <path
+             class="st0"
+             d="m 1720,3020.5 124.5,-647.9 h 165.6 l -124.5,647.9 z M 1875,2207 c 0,-47.7 34.4,-102 92.7,-102 54.3,0 79.5,41.1 78.2,86.1 -1.3,66.2 -46.4,103.3 -95.4,103.3 -53,0 -76.9,-38.4 -75.5,-87.4 z"
+             id="path872" />
+          <path
+             class="st0"
+             d="m 2113,2372.6 5.3,-26.5 c 14.6,-76.8 43.7,-143.1 98.1,-193.4 39.7,-37.1 98,-59.6 164.3,-59.6 42.4,0 74.2,6.6 94.1,13.2 l -37.1,127.2 c -15.9,-5.3 -30.5,-7.9 -51.7,-7.9 -59.6,0 -94.1,62.3 -104.7,119.2 l -5.3,27.8 h 192.1 l -22.5,116.6 h -189.5 l -102,531.3 h -165.6 l 102,-531.3"
+             id="path874" />
+          <path
+             class="st0"
+             d="m 2571.4,2372.6 4,311.3 c 1.3,60.9 2.7,106 1.3,153.7 h 2.7 c 13.2,-53 26.5,-96.7 49,-165.6 l 98.1,-299.4 h 166.9 l -212,510.1 c -63.6,148.4 -136.5,272.9 -216,345.8 -38.4,35.8 -83.5,63.6 -111.3,75.5 l -66.2,-135.1 c 29.1,-14.6 59.6,-31.8 86.1,-53 37.1,-30.5 72.9,-67.6 88.8,-103.4 2.6,-9.3 5.3,-15.9 4,-29.1 l -68.9,-610.8 z"
+             id="path876" />
+        </g>
+      </g>
     </g>
   </g>
-</svg>`)
+  <style
+     type="text/css"
+     id="style860">
+   .st0{fill:#FFFFFF;}
+</style>
+</svg>
+`)
 
 const titleRe = /<title>(.*?) \| fastify-vite<\/title>/
 
